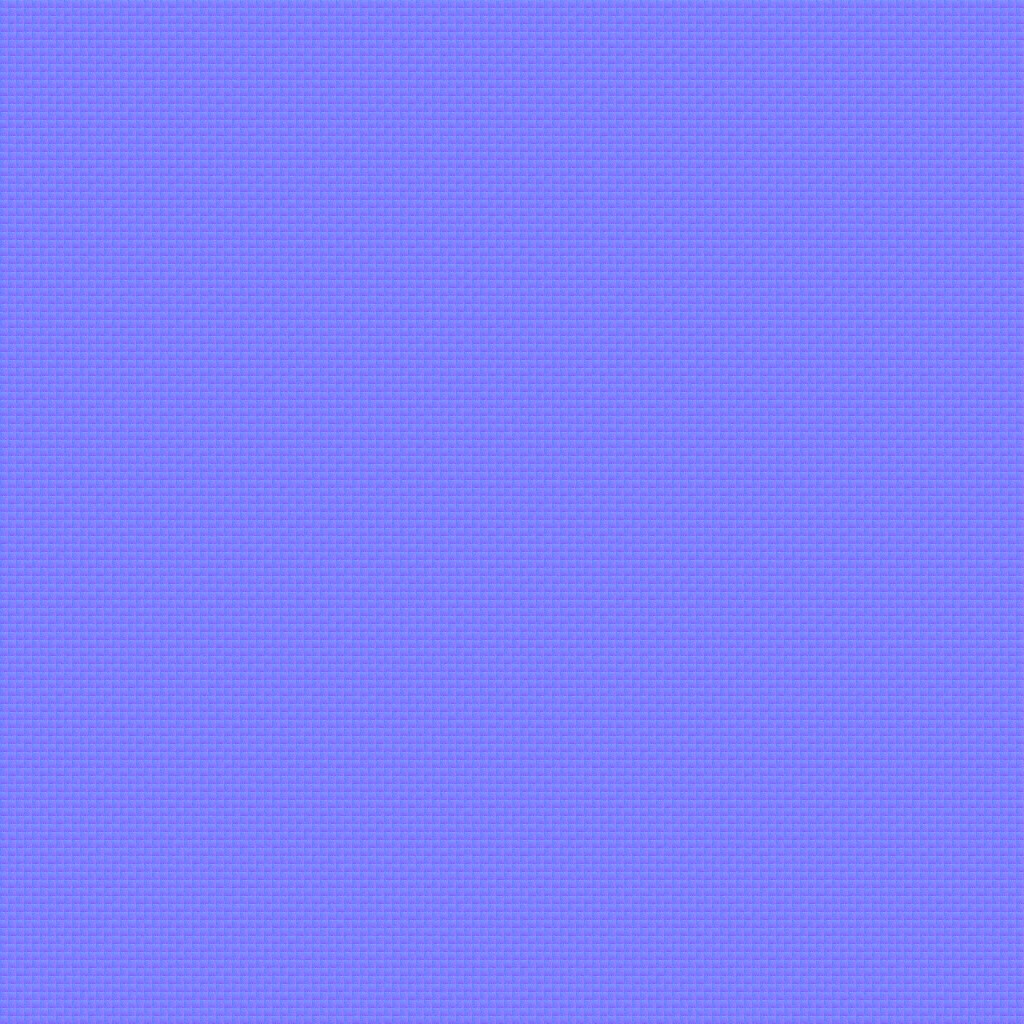
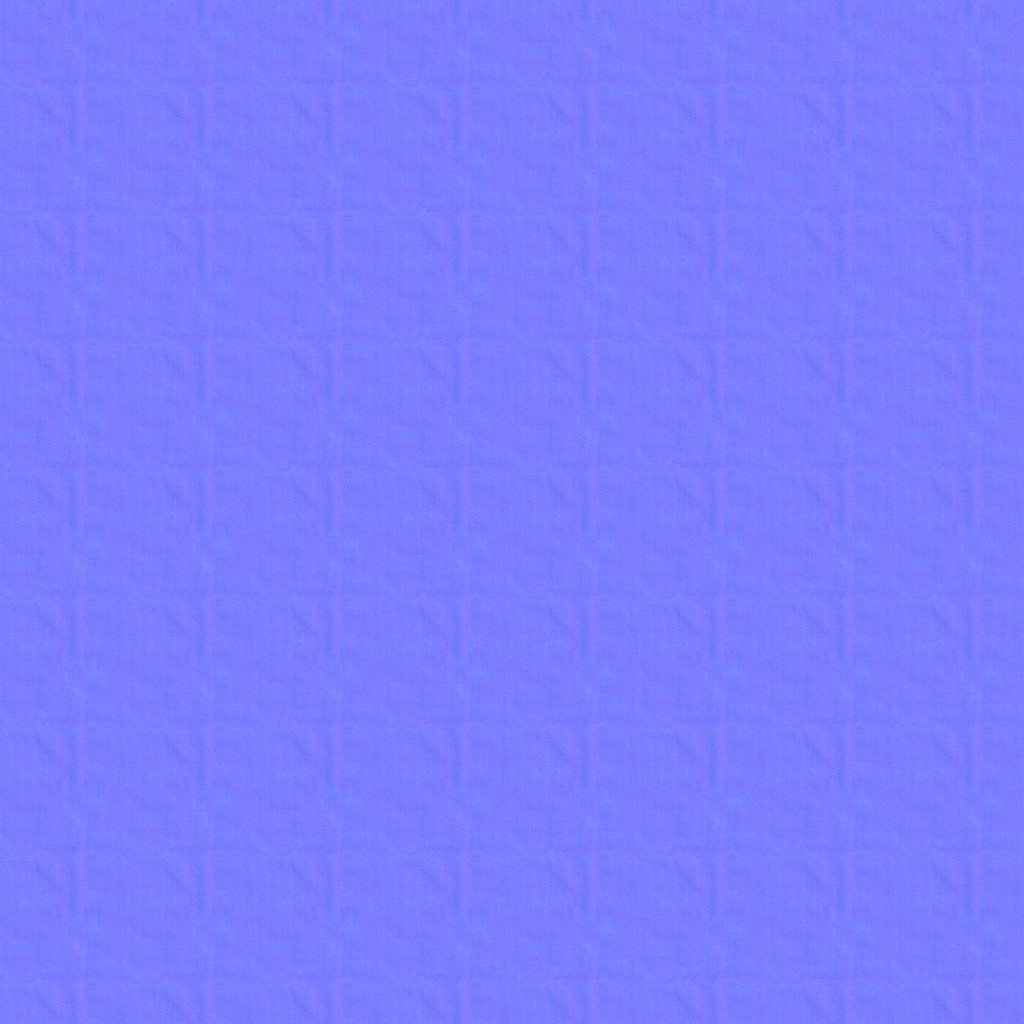
Hollow Manor: the Poly Haven-based textures, now baked and in use
- Baked the 11 textures that needed Poly Haven photo sources; 9 are in use:
  red runner in the Opera lobby, worn flagstone ledges, walls and columns and
  dark oak doors in the Cathedral, oak desks and lecterns in the Archive, rusted
  rails, carts and buckets and oil-stained pit props in the Mine, plain sandstone
  blocks in the Tomb, a barnacled submarine hull in the Abyss, oak furniture,
  doors and slate pillars in the Heart of Hollow Manor
- Cloth textures (detail_cloth, buoys, banners, burlap, curtains, seats, velvet)
  re-baked with the real fabric weave normal map

diff --git a/haunted/level11/rooms.js b/haunted/level11/rooms.js
@@ -45,7 +45,7 @@ const catalogue = {
     R.spectral(-10, 2.3, 10, 2.7);
     R.spectral(-3.7, 2.7, -3.3, 21.5); R.spectral(3.3, 2.7, 3.7, 21.5);
     R.spectral(-10, 10.8, -3.7, 11.2); R.spectral(3.7, 10.8, 10, 11.2);
-    const cab = new T.Mesh(new T.BoxGeometry(2.2, 1.4, 1), E.mat(0x5a3a22)); R.place(cab, DRAWER2[0], DRAWER2[1], .7); R.block(DRAWER2[0] - 1.1, DRAWER2[1] - .5, DRAWER2[0] + 1.1, DRAWER2[1] + .5, .01, E.mat(0));
+    const cab = new T.Mesh(new T.BoxGeometry(2.2, 1.4, 1), E.texFrom(20, 'manor_oak', { color: 0x5a3a22, tile: 1.4 })); R.place(cab, DRAWER2[0], DRAWER2[1], .7); R.block(DRAWER2[0] - 1.1, DRAWER2[1] - .5, DRAWER2[0] + 1.1, DRAWER2[1] + .5, .01, E.mat(0));
     for (let i = 0; i < 6; i++){ const d = new T.Mesh(new T.BoxGeometry(.6, .35, .05), E.mat(0x8a6a42)); R.place(d, -.7 + (i % 3) * .7, DRAWER2[1] - .52, .35 + Math.floor(i / 3) * .5); }
     this.orbs = orbRow(E, R, 3, -1.3, 21.3, 1.3, 2.4);
     this.k = knight(R, E, [0, 17], { sp: 2.6, gone: st => st.got >= 3 });
@@ -72,14 +72,14 @@ const lending = {
   hint: 'While you hold a book you are SOLID — no phasing. Throw the book through the purple wall into its alcove, phase in after it with empty hands, pick it up and put it on the glowing shelf at the back. Red goes left, green right, blue at the top.',
   build(R, E){
     EE = E; const T = E.THREE;
-    const desk = new T.Mesh(new T.BoxGeometry(5, 1, .8), E.mat(0x5a3a22)); R.place(desk, 0, 2.6, .5); R.block(-2.5, 2.2, 2.5, 3, .01, E.mat(0));
+    const desk = new T.Mesh(new T.BoxGeometry(5, 1, .8), E.texFrom(20, 'manor_oak', { color: 0x5a3a22, tile: 1.4 })); R.place(desk, 0, 2.6, .5); R.block(-2.5, 2.2, 2.5, 3, .01, E.mat(0));
     // red alcove (west)
     R.wall(-10, 6.8, -5, 7.2); R.wall(-10, 11.8, -5, 12.2); R.spectral(-5.2, 7.2, -4.8, 11.8);
     // green alcove (east)
     R.wall(5, 11.8, 10, 12.2); R.wall(5, 16.8, 10, 17.2); R.spectral(4.8, 12.2, 5.2, 16.8);
     // blue alcove (north) — the exit is at its back
     R.wall(-3.2, 17.5, -2.8, 22); R.wall(2.8, 17.5, 3.2, 22); R.spectral(-2.8, 17.3, 2.8, 17.7);
-    this.slots = SLOT3.map(([x, lz], i) => { const s = new T.Mesh(new T.BoxGeometry(i === 2 ? 1.6 : .5, 1.6, i === 2 ? .5 : 1.6), E.mat(0x3a2416)); R.place(s, x + (i === 0 ? -.5 : i === 1 ? .5 : 0), lz + (i === 2 ? .6 : 0), .8); const g = new T.Mesh(new T.BoxGeometry(.9, .06, .9), E.glow(BOOKS3[i][2], .8)); R.place(g, x, lz, .04); const b = bookMesh(E, BOOKS3[i][2]); b.visible = false; R.place(b, x, lz, 1.2); return b; });
+    this.slots = SLOT3.map(([x, lz], i) => { const s = new T.Mesh(new T.BoxGeometry(i === 2 ? 1.6 : .5, 1.6, i === 2 ? .5 : 1.6), E.texFrom(20, 'manor_oak', { color: 0x3a2416, tint: 0xb8a090, tile: 1.4 })); R.place(s, x + (i === 0 ? -.5 : i === 1 ? .5 : 0), lz + (i === 2 ? .6 : 0), .8); const g = new T.Mesh(new T.BoxGeometry(.9, .06, .9), E.glow(BOOKS3[i][2], .8)); R.place(g, x, lz, .04); const b = bookMesh(E, BOOKS3[i][2]); b.visible = false; R.place(b, x, lz, 1.2); return b; });
     this.orbs = orbRow(E, R, 3, -1.3, 3.4, 1.3, 1.5);
     knight(R, E, [0, 10], { sp: 2.4, label: 'the Librarian Knight', gone: st => st.put.every(Boolean) });
   },
@@ -134,7 +134,7 @@ const booths = {
     R.wall(-2.4, 16.8, -2, 21.6); R.wall(2, 16.8, 2.4, 21.6); R.spectral(-2, 16.8, 2, 17.2);
     this.gly = BOOTH5.map(([x1, l1, x2, l2]) => { const m = textPlane(E, 1.4, 1.4, 1.2); m.visible = false; R.place(m, (x1 + x2) / 2, (l1 + l2) / 2, 1.9); return m; });
     this.dials = DIAL5.map(([x, lz], i) => { R.plate('d' + i, x, lz, 0xffd38a, 1.3, ['←', '↑', '→'][i]); const m = textPlane(E, 1, 1, 1); R.place(m, x, lz + .9, 1.6); return m; });
-    const desk = new T.Mesh(new T.BoxGeometry(7.6, .8, .5), E.mat(0x5a3a22)); R.place(desk, 0, 8.2, .4); R.block(-3.8, 7.95, 3.8, 8.45, .01, E.mat(0));
+    const desk = new T.Mesh(new T.BoxGeometry(7.6, .8, .5), E.texFrom(20, 'manor_oak', { color: 0x5a3a22, tile: 1.4 })); R.place(desk, 0, 8.2, .4); R.block(-3.8, 7.95, 3.8, 8.45, .01, E.mat(0));
     this.k = knight(R, E, [0, 13], { sp: 2.5, gone: st => st.done });
     this.last = null;
   },
@@ -201,9 +201,9 @@ const restricted = {
   hint: 'The sentry knights stand still until their lantern cone catches you — their gaze goes right through ghost-walls. Once they chase, phase through a wall to lose them. With the Tome in your hands you can\'t phase: use the gaps in the walls, or throw the Tome through a wall and phase after it.',
   build(R, E){
     EE = E; const T = E.THREE;
-    [6.5, 12, 17].forEach((lz, i) => { const g = GAPS7[i][0]; R.spectral(-10, lz - .25, g - 1.1, lz + .25); R.spectral(g + 1.1, lz - .25, 10, lz + .25); const a = new T.Mesh(new T.BoxGeometry(2.2, .2, .6), E.mat(0x3a2416)); R.place(a, g, lz, 2.5); });
-    const lect = new T.Mesh(new T.BoxGeometry(1, 1.1, .8), E.mat(0x3a2416)); R.place(lect, TOME7[0], TOME7[1] + .9, .55);
-    const desk = new T.Mesh(new T.BoxGeometry(2, .9, 1), E.mat(0x5a3a22)); R.place(desk, DESK7[0], DESK7[1] - .7, .45);
+    [6.5, 12, 17].forEach((lz, i) => { const g = GAPS7[i][0]; R.spectral(-10, lz - .25, g - 1.1, lz + .25); R.spectral(g + 1.1, lz - .25, 10, lz + .25); const a = new T.Mesh(new T.BoxGeometry(2.2, .2, .6), E.texFrom(20, 'manor_oak', { color: 0x3a2416, tint: 0xb8a090, tile: 1.4 })); R.place(a, g, lz, 2.5); });
+    const lect = new T.Mesh(new T.BoxGeometry(1, 1.1, .8), E.texFrom(20, 'manor_oak', { color: 0x3a2416, tint: 0xb8a090, tile: 1.4 })); R.place(lect, TOME7[0], TOME7[1] + .9, .55);
+    const desk = new T.Mesh(new T.BoxGeometry(2, .9, 1), E.texFrom(20, 'manor_oak', { color: 0x5a3a22, tile: 1.4 })); R.place(desk, DESK7[0], DESK7[1] - .7, .45);
     this.tomeOn = bookMesh(E, 0x4a0a2a); this.tomeOn.scale.setScalar(1.6); this.tomeOn.visible = false; R.place(this.tomeOn, DESK7[0], DESK7[1] - .7, 1);
     this.sent = POST7.map(([x, lz, ry], i) => {
       const g = knight(R, E, [x, lz], { sp: 3, tint: 0x6a6a86, label: 'a sentry knight', wants: (g, p, st) => st.alert[i] > 0, onStep: (g, dt, st, m, best) => { if (!(st.alert[i] > 0) && Math.hypot(g.x - g.home[0], g.z - g.home[1]) < .3){ g.ry = ry + Math.sin(E.elapsed * .6 + i * 2) * .9; } } });

diff --git a/haunted/level20/rooms.js b/haunted/level20/rooms.js
@@ -25,7 +25,7 @@ const grand = {
   get hint(){ return solo() ? 'The soul seals only break in a Soul Blast. Solo: rewind (R), then tap ☀ standing right next to your dream echo. A blast also stuns every ghost nearby for a long time. Two blasts — one between each pair of seals.' : 'The soul seals only break in a Soul Blast: stand close together and BOTH tap ☀ at the same moment. The blast also stuns every ghost nearby for a long time. Two blasts — one between each pair of seals.'; },
   build(R, E){
     EE = E; const T = E.THREE;
-    this.sm = SEAL1.map(([x, lz]) => { const g = new T.Group(); const p = new T.Mesh(new T.CylinderGeometry(.5, .6, 2, 10), E.mat(0x3a2a3a)); p.position.y = 1; g.add(p); const f = new T.Mesh(new T.ConeGeometry(.35, .9, 8), new T.MeshBasicMaterial({ color: 0xb87aff })); f.position.y = 2.45; g.add(f); g.userData.f = f; R.place(g, x, lz); R.block(x - .5, lz - .5, x + .5, lz + .5, .01, E.mat(0)); return g; });
+    this.sm = SEAL1.map(([x, lz]) => { const g = new T.Group(); const p = new T.Mesh(new T.CylinderGeometry(.5, .6, 2, 10), E.tex('soul_slate', { color: 0x3a2a3a, tile: 1.2 })); p.position.y = 1; g.add(p); const f = new T.Mesh(new T.ConeGeometry(.35, .9, 8), new T.MeshBasicMaterial({ color: 0xb87aff })); f.position.y = 2.45; g.add(f); g.userData.f = f; R.place(g, x, lz); R.block(x - .5, lz - .5, x + .5, lz + .5, .01, E.mat(0)); return g; });
     R.wall(-10, 19.6, -1.5, 20.4); R.wall(1.5, 19.6, 10, 20.4); R.door('g', -1.5, 19.6, 1.5, 20.4, 'gate');
     this.g = [[-8, 11], [8, 11], [0, 18], [-3, 5], [3, 5], [0, 12]].map(h => R.ghost({ home: h, look: ['normal', 'hood', 'hat', 'wisp', 'blob', 'crown'][Math.abs(h[0] + h[1]) % 6], sp: 2, radius: 7 }));
     this.orbs = orbRow(E, R, 4, -1.95, 21.3, 1.3, 2.4);
@@ -83,7 +83,7 @@ const trials = {
     R.wall(-10, 17.6, -1.5, 18.2); R.wall(1.5, 17.6, 10, 18.2); R.door('s', -1.5, 17.6, 1.5, 18.2, 'gate');
     const seal = new T.Mesh(new T.TorusGeometry(.5, .1, 8, 20), E.glow(0x5ad1ff, 1.5)); R.place(seal, 0, 17.5, 1.6); this.seal = seal;
     R.wall(-10, 19.8, -1.5, 20.4); R.wall(1.5, 19.8, 10, 20.4); R.door('h', -1.5, 19.8, 1.5, 20.4, 'gate'); R.plate('p', -5, 19, 0xd8a8ff, 1.3, '☾');
-    const cr = new T.Mesh(new T.BoxGeometry(1.4, .5, 1), E.mat(0x5a3a1a)); R.place(cr, 7, 7, .25);
+    const cr = new T.Mesh(new T.BoxGeometry(1.4, .5, 1), E.tex('manor_oak', { color: 0x5a3a1a, tile: 1 })); R.place(cr, 7, 7, .25);
     for (const [lz, txt] of [[3.25, 'VAULT'], [5.25, 'PHASE'], [11.3, 'BOMB'], [15, 'GRAPPLE'], [17.9, 'BOLT'], [20.1, 'ECHO']]){ const m = textPlane(E, 2, .5, 1); R.place(m, -8.5, lz - .35, 2.4); redraw(m, (c, W, H) => { c.fillStyle = '#2a0a1a'; c.fillRect(0, 0, W, H); c.fillStyle = '#ffd38a'; c.font = 'bold 44px Georgia'; c.textAlign = 'center'; c.textBaseline = 'middle'; c.fillText(txt, W / 2, H / 2 + 2); }); }
   },
   init(){ return { seal: 0, items: [mkItem('bomb', 6.6, 7, { n: 0 }), mkItem('bomb', 7.4, 7, { n: 1 })] }; },
@@ -141,9 +141,9 @@ const banquet = {
   hint: 'Read the three seating rules on the walls, then carry each place card to the right chair. Knives fly across the hall along the glowing lines — get off a line when it lights up.',
   build(R, E){
     EE = E; const T = E.THREE;
-    const tbl = new T.Mesh(new T.BoxGeometry(3.6, .9, 12), E.mat(0x4a2a1a)); R.place(tbl, 0, 11.5, .45); R.block(-1.8, 5.5, 1.8, 17.5, .01, E.mat(0)); const cloth = new T.Mesh(new T.BoxGeometry(3.8, .05, 12.2), E.mat(0xe8d8d8)); R.place(cloth, 0, 11.5, .92);
+    const tbl = new T.Mesh(new T.BoxGeometry(3.6, .9, 12), E.tex('manor_oak', { color: 0x4a2a1a, tile: 1.6 })); R.place(tbl, 0, 11.5, .45); R.block(-1.8, 5.5, 1.8, 17.5, .01, E.mat(0)); const cloth = new T.Mesh(new T.BoxGeometry(3.8, .05, 12.2), E.mat(0xe8d8d8)); R.place(cloth, 0, 11.5, .92);
     for (let i = 0; i < 7; i++){ const c = new T.Mesh(new T.CylinderGeometry(.08, .08, .5, 6), E.glow(0xffd38a, 1.2)); R.place(c, 0, 6.5 + i * 1.65, 1.2); }
-    this.chairs = SEATS5.map(([x, lz]) => { const c = new T.Mesh(new T.BoxGeometry(.9, 1.4, .9), E.mat(0x6a3a2a)); R.place(c, x + (x < 0 ? -.7 : .7), lz, .7); const card = textPlane(E, 1.1, .5, 1); card.visible = false; R.place(card, x * .45, lz, 1.05); card.rotation.x = -Math.PI / 2; return card; });
+    this.chairs = SEATS5.map(([x, lz]) => { const c = new T.Mesh(new T.BoxGeometry(.9, 1.4, .9), E.tex('manor_oak', { color: 0x6a3a2a, tile: 1 })); R.place(c, x + (x < 0 ? -.7 : .7), lz, .7); const card = textPlane(E, 1.1, .5, 1); card.visible = false; R.place(card, x * .45, lz, 1.05); card.rotation.x = -Math.PI / 2; return card; });
     [['The COUNT sits on the left side,', 'in the seat nearest the way out.'], ['The COOK takes the middle seat', 'on the right side.'], ['The CAT sits directly', 'opposite the COOK.']].forEach(([a, b], i) => { const m = textPlane(E, 3.6, 1, 1); m.rotation.y = i === 1 ? -Math.PI / 2 : Math.PI / 2; R.place(m, i === 1 ? 9.7 : -9.7, 6 + i * 5, 1.8); redraw(m, (c, W, H) => { c.fillStyle = '#2a0a14'; c.fillRect(0, 0, W, H); c.fillStyle = '#ffd38a'; c.font = 'italic 24px Georgia'; c.textAlign = 'center'; c.fillText(a, W / 2, H / 2 - 14); c.fillText(b, W / 2, H / 2 + 18); }); });
     this.lines = Array.from({ length: 2 }, () => { const m = new T.Mesh(new T.BoxGeometry(20, .03, .5), new T.MeshBasicMaterial({ color: 0xff3030, transparent: true, opacity: 0 })); E.scene.add(m); return m; });
     this.knives = Array.from({ length: 2 }, () => { const m = new T.Mesh(new T.BoxGeometry(.8, .05, .12), E.mat(0xe8e8f0, { metalness: .9 })); m.visible = false; E.scene.add(m); return m; });
@@ -315,7 +315,7 @@ export default {
   level: 20,
   // texture pack in tex/level20/ (Poly Haven + Blender-baked by Claude Desktop; see README.txt there)
   decor: { kind: 'panel', tex: 'flesh_wall', w: 1.6, h: 2, y: 1.2, every: 6, glow: .15, color: 0x5a0a14, skip: 3 },   // wall dressing: living flesh (engine wallDecor)
-  wallImg: 'manor_wall', trimImg: 'manor_gold', texVer: 1,
+  doorImg: 'manor_oak', wallImg: 'manor_wall', trimImg: 'manor_gold', texVer: 1,
   texFloors: {
     "The Grand Return": "return_checker",
     "The Heartbeat": "heartbeat_flesh",

diff --git a/haunted/level13/rooms.js b/haunted/level13/rooms.js
@@ -11,7 +11,7 @@ const mkItem = (k, x, lz, extra = {}) => ({ k, s: 0, x, lz, hx: x, hlz: lz, w: -
 const home = it => { it.s = 0; it.x = it.hx; it.lz = it.hlz; it.w = -1; it.y = 0; };
 const oilCans = (list) => list.map(([x, lz], i) => mkItem('oil', x, lz, { n: 100 + i }));
 const glowOre = (E, col = 0xffc84a) => { const T = E.THREE, m = new T.Mesh(new T.DodecahedronGeometry(.3), new T.MeshStandardMaterial({ color: col, emissive: col, emissiveIntensity: .9, metalness: .6, roughness: .3 })); return m; };
-const timber = (R, E, x, lz) => { const T = E.THREE, m = E.mat(0x5a3a1a); for (const s of [-1, 1]){ const p = new T.Mesh(new T.BoxGeometry(.3, 2.8, .3), m); R.place(p, x + s * 1.6, lz, 1.4); } const b = new T.Mesh(new T.BoxGeometry(3.5, .3, .35), m); R.place(b, x, lz, 2.8); };
+const timber = (R, E, x, lz) => { const T = E.THREE, m = E.tex('oil_planks', { color: 0x5a3a1a, tile: 1.2 }); for (const s of [-1, 1]){ const p = new T.Mesh(new T.BoxGeometry(.3, 2.8, .3), m); R.place(p, x + s * 1.6, lz, 1.4); } const b = new T.Mesh(new T.BoxGeometry(3.5, .3, .35), m); R.place(b, x, lz, 2.8); };
 
 /* ---------- Tommyknocker: hunts the brightest light it can see ---------- */
 function knocker(R, E, home, opt = {}){
@@ -102,10 +102,10 @@ const carts = {
   build(R, E){
     EE = E; const T = E.THREE;
     R.floor(CH3[0], CH3[1], CH3[2], CH3[3], voidMat(E), .015);
-    const rail = E.mat(0x6a6a72, { metalness: .8 });
+    const rail = E.tex('rail_iron', { color: 0x6a6a72, metalness: .6, roughness: .55, tile: 1 });
     const lay = (a, b) => { const len = Math.hypot(b[0] - a[0], b[1] - a[1]); for (const o of [-.45, .45]){ const r = new T.Mesh(new T.BoxGeometry(.08, .08, len), rail); const ang = Math.atan2(b[0] - a[0], -(b[1] - a[1])); r.rotation.y = ang; R.place(r, (a[0] + b[0]) / 2 + Math.cos(ang) * o, (a[1] + b[1]) / 2 + Math.sin(ang) * o, .1); } };
     [[LOOPB[0], LOOPB[1]], [LOOPB[1], LOOPB[2]], [LOOPB[2], LOOPB[3]], [LOOPB[3], LOOPB[0]], [[7, 5.5], [-7, 5.5]]].forEach(([a, b]) => lay(a, b));
-    this.cart = new T.Group(); const box = new T.Mesh(new T.BoxGeometry(1.6, .8, 1.2), E.mat(0x5a4a3a, { metalness: .4 })); box.position.y = .55; this.cart.add(box); for (const sx of [-.6, .6]) for (const sz of [-.45, .45]){ const w = new T.Mesh(new T.CylinderGeometry(.2, .2, .1, 10), E.mat(0x2a2a2a)); w.rotation.z = Math.PI / 2; w.position.set(sx, .2, sz); this.cart.add(w); } const lamp = new T.PointLight(0xffb36b, 4, 9, 1.4); lamp.position.y = 1.5; this.cart.add(lamp); E.scene.add(this.cart);
+    this.cart = new T.Group(); const box = new T.Mesh(new T.BoxGeometry(1.6, .8, 1.2), E.tex('rail_iron', { color: 0x5a4a3a, metalness: .4, roughness: .6, tile: 1.2 })); box.position.y = .55; this.cart.add(box); for (const sx of [-.6, .6]) for (const sz of [-.45, .45]){ const w = new T.Mesh(new T.CylinderGeometry(.2, .2, .1, 10), E.mat(0x2a2a2a)); w.rotation.z = Math.PI / 2; w.position.set(sx, .2, sz); this.cart.add(w); } const lamp = new T.PointLight(0xffb36b, 4, 9, 1.4); lamp.position.y = 1.5; this.cart.add(lamp); E.scene.add(this.cart);
     R.plate('lever', 9, 4.2, 0xffd34a, 1.2, '⇄');
     this.sign = textPlane(E, 1.6, .8, 1); R.place(this.sign, 9, 5.6, 1.6);
     const cr = new T.Mesh(new T.CylinderGeometry(1, .7, 1.2, 10, 1, true), new T.MeshStandardMaterial({ color: 0x6a6a72, metalness: .7, side: T.DoubleSide })); R.place(cr, CRUSH3[0], CRUSH3[1], .6);
@@ -346,7 +346,7 @@ const oldKnocker = {
   hint: 'The Old Knocker chases the brightest lantern (and decoys). Three ore buckets hang over the X marks. Lure him onto an X, then step on that bucket\'s lever: the bucket drops on his head. Each lever is far from its X — so one of you lures and one pulls, or drop a decoy on the X and run.',
   build(R, E){
     EE = E; const T = E.THREE;
-    this.bk = X10.map(([x, lz], i) => { const mk = new T.Mesh(new T.RingGeometry(1.1, 1.4, 24), new T.MeshBasicMaterial({ color: 0xff5050, side: T.DoubleSide, transparent: true, opacity: .6 })); mk.rotation.x = -Math.PI / 2; R.place(mk, x, lz, .04); const b = new T.Group(); const pail = new T.Mesh(new T.CylinderGeometry(.9, .7, 1.2, 12), E.mat(0x5a4a3a, { metalness: .5 })); b.add(pail); const ore = glowOre(E); ore.scale.setScalar(2.4); ore.position.y = .7; b.add(ore); const rope = new T.Mesh(new T.CylinderGeometry(.04, .04, 4, 4), E.mat(0x8a7a5a)); rope.position.y = 2.6; b.add(rope); R.place(b, x, lz, 4); R.plate('l' + i, LEV10[i][0], LEV10[i][1], 0xffd34a, 1.3, ['Ⅰ', 'Ⅱ', 'Ⅲ'][i]); const sg = textPlane(E, .9, .9, 1); R.place(sg, x, lz, .05); sg.rotation.x = -Math.PI / 2; redraw(sg, (c, W, H) => { c.fillStyle = '#ffd34a'; c.font = 'bold 150px serif'; c.textAlign = 'center'; c.textBaseline = 'middle'; c.fillText(['Ⅰ', 'Ⅱ', 'Ⅲ'][i], W / 2, H / 2); }); return b; });
+    this.bk = X10.map(([x, lz], i) => { const mk = new T.Mesh(new T.RingGeometry(1.1, 1.4, 24), new T.MeshBasicMaterial({ color: 0xff5050, side: T.DoubleSide, transparent: true, opacity: .6 })); mk.rotation.x = -Math.PI / 2; R.place(mk, x, lz, .04); const b = new T.Group(); const pail = new T.Mesh(new T.CylinderGeometry(.9, .7, 1.2, 12), E.tex('rail_iron', { color: 0x5a4a3a, metalness: .5, roughness: .6, tile: 1.2 })); b.add(pail); const ore = glowOre(E); ore.scale.setScalar(2.4); ore.position.y = .7; b.add(ore); const rope = new T.Mesh(new T.CylinderGeometry(.04, .04, 4, 4), E.mat(0x8a7a5a)); rope.position.y = 2.6; b.add(rope); R.place(b, x, lz, 4); R.plate('l' + i, LEV10[i][0], LEV10[i][1], 0xffd34a, 1.3, ['Ⅰ', 'Ⅱ', 'Ⅲ'][i]); const sg = textPlane(E, .9, .9, 1); R.place(sg, x, lz, .05); sg.rotation.x = -Math.PI / 2; redraw(sg, (c, W, H) => { c.fillStyle = '#ffd34a'; c.font = 'bold 150px serif'; c.textAlign = 'center'; c.textBaseline = 'middle'; c.fillText(['Ⅰ', 'Ⅱ', 'Ⅲ'][i], W / 2, H / 2); }); return b; });
     this.boss = knocker(R, E, [0, 19], { scale: 2, label: 'the Old Knocker', tint: 0x6a5030, reach: 14, sp: st => st.stun > 0 ? 0 : 2.3 + st.hits * .35, gone: st => st.done });
     this.kids = [0, 1].map(k => knocker(R, E, [k ? 8 : -8, 20], { gone: st => st.hits <= k || st.done }));
     this.orbs = orbRow(E, R, 3, -1.3, 21.3, 1.3, 3);

diff --git a/haunted/level9/rooms.js b/haunted/level9/rooms.js
@@ -69,11 +69,11 @@ const gallery = {
   hint: 'When a red circle appears under you, a gargoyle is diving there — move or dash out of it! A flash makes a diving gargoyle pull up. Carry the three relic shards to the altar.',
   build(R, E){
     const T = E.THREE;
-    PERCH2.forEach(([x, lz]) => { const ledge = new T.Mesh(new T.BoxGeometry(1.4, .3, 1.6), E.mat(0x5a5662)); R.place(ledge, x, lz, 2.2); });
+    PERCH2.forEach(([x, lz]) => { const ledge = new T.Mesh(new T.BoxGeometry(1.4, .3, 1.6), E.tex('plain_flags', { color: 0x5a5662, tile: 1.6 })); R.place(ledge, x, lz, 2.2); });
     this.gs = PERCH2.map((p, i) => gargoyle(R, E, 'g' + i, p));
     this.marks = diveMarks(E);
     const alt = new T.Mesh(new T.BoxGeometry(2.4, 1, 1.2), E.mat(0xd8d0c4)); R.place(alt, ALT2[0], ALT2[1] + .9, .5);
-    for (const [x, lz] of [[-3, 9], [3, 15]]){ const c = new T.Mesh(new T.CylinderGeometry(.6, .7, 3.2, 12), E.mat(0x6a6672)); R.place(c, x, lz, 1.6); R.block(x - .6, lz - .6, x + .6, lz + .6, .01, E.mat(0)); }
+    for (const [x, lz] of [[-3, 9], [3, 15]]){ const c = new T.Mesh(new T.CylinderGeometry(.6, .7, 3.2, 12), E.tex('plain_flags', { color: 0x6a6672, tile: 1.4 })); R.place(c, x, lz, 1.6); R.block(x - .6, lz - .6, x + .6, lz + .6, .01, E.mat(0)); }
     this.orbs = orbRow(E, R, 3, -1.3, 21.3, 1.3, 2.4);
   },
   init(){ return { got: 0, dv: {}, items: SHARDS.map(([x, lz]) => mkItem('shard', x, lz)) }; },
@@ -235,7 +235,7 @@ const reliquary = {
   hint: 'The three ring walls keep turning, each with one gap. The levers in the corners STOP a ring while someone stands on them. One holds rings still when their gaps line up; the other slips through to the relic in the middle and carries it back out to the altar (top-right corner).',
   build(R, E){
     const T = E.THREE;
-    this.pillars = RINGS.map(([r]) => { const n = Math.round(Math.PI * 2 * r / .75); return Array.from({ length: n }, () => { const m = new T.Mesh(new T.BoxGeometry(.7, 2, .7), E.mat(0x6a6672)); E.scene.add(m); return m; }); });
+    this.pillars = RINGS.map(([r]) => { const n = Math.round(Math.PI * 2 * r / .75); return Array.from({ length: n }, () => { const m = new T.Mesh(new T.BoxGeometry(.7, 2, .7), E.tex('plain_flags', { color: 0x6a6672, tile: 1.4 })); E.scene.add(m); return m; }); });
     LEV7.forEach(([x, lz], i) => R.plate('L' + i, x, lz, [0xff9a3d, 0x5ad1ff, 0xd8a8ff][i], 1.4, ['Ⅰ', 'Ⅱ', 'Ⅲ'][i]));
     const alt = new T.Mesh(new T.BoxGeometry(1.6, .9, 1.2), E.mat(0xd8d0c4)); R.place(alt, 8.6, 20.8, .45);
   },
@@ -267,7 +267,7 @@ const aisle = {
   build(R, E){
     const T = E.THREE;
     GAPS8.forEach(([a, b]) => R.floor(-10, a, 10, b, voidMat(E), .015));
-    for (const [x1, l1, x2, l2] of [[-10, 3.5, -2, 4.3], [2, 11, 10, 11.8], [-10, 18.2, -3, 19]]) R.block(x1, l1, x2, l2, 2.2, E.mat(0x5a5662));
+    for (const [x1, l1, x2, l2] of [[-10, 3.5, -2, 4.3], [2, 11, 10, 11.8], [-10, 18.2, -3, 19]]) R.block(x1, l1, x2, l2, 2.2, E.tex('plain_flags', { color: 0x5a5662, tile: 1.6 }));
     R.hook(-5, 18); R.hook(5, 17.6);
     this.front = R.floor(-10, 0, 10, 1, voidMat(E), .02);
     this.dust = new T.Mesh(new T.BoxGeometry(20, 2, .3), new T.MeshBasicMaterial({ color: 0x8a8090, transparent: true, opacity: .35 })); E.scene.add(this.dust);
@@ -373,7 +373,7 @@ export default {
   level: 9,
   // texture pack in tex/level9/ (Poly Haven + Blender-baked by Claude Desktop; see README.txt there)
   decor: { kind: 'panel', tex: 'stained_glass', w: 1.1, h: 1.8, y: 1.45, every: 5, glow: .55, frame: true, mullion: true, color: 0x8a6a3a },   // wall dressing: stained-glass windows (engine wallDecor)
-  wallImg: 'cathedral_wall', trimImg: 'wrought_iron', texVer: 1,
+  doorImg: 'pew_oak', wallImg: 'cathedral_wall', trimImg: 'wrought_iron', texVer: 1,
   texFloors: {
     "The Collapsed Nave": "nave_flags",
     "The Gargoyle Gallery": "gallery_cobble",

diff --git a/haunted/level17/rooms.js b/haunted/level17/rooms.js
@@ -178,7 +178,7 @@ const searchlight = {
   build(R, E){
     EE = E; const T = E.THREE;
     ROCK6.forEach(([a, b, c, d]) => R.block(a, b, c, d, 1.6, rockMat(E)));
-    this.sub = new T.Group(); const hull = new T.Mesh(new T.CapsuleGeometry(1, 4, 6, 12), E.mat(0x3a4a3a, { metalness: .6 })); hull.rotation.z = Math.PI / 2; hull.position.y = 1.3; this.sub.add(hull); const tower = new T.Mesh(new T.BoxGeometry(1.2, 1, 1), hull.material); tower.position.y = 2.4; this.sub.add(tower); this.lamp = new T.Mesh(new T.SphereGeometry(.3, 10, 8), E.glow(0xffffd8, 3)); this.lamp.position.set(0, 1.3, .9); this.sub.add(this.lamp); E.scene.add(this.sub);
+    this.sub = new T.Group(); const hull = new T.Mesh(new T.CapsuleGeometry(1, 4, 6, 12), E.tex('barnacle_iron', { color: 0x3a4a3a, metalness: .5, roughness: .6, tile: 1.6 })); hull.rotation.z = Math.PI / 2; hull.position.y = 1.3; this.sub.add(hull); const tower = new T.Mesh(new T.BoxGeometry(1.2, 1, 1), hull.material); tower.position.y = 2.4; this.sub.add(tower); this.lamp = new T.Mesh(new T.SphereGeometry(.3, 10, 8), E.glow(0xffffd8, 3)); this.lamp.position.set(0, 1.3, .9); this.sub.add(this.lamp); E.scene.add(this.sub);
     this.cone = E.sector(17, .3, 0xffffd8, .18); E.scene.add(this.cone);
     LEV6.forEach(([x, lz], i) => R.plate('l' + i, x, lz, 0xd4af37, 1.3, '⏚'));
   },

diff --git a/haunted/level15/rooms.js b/haunted/level15/rooms.js
@@ -5,7 +5,7 @@ import { orbRow, setOrbs, near, inRect, textPlane, redraw } from '../lib.js';
 let EE = null;
 const solo = () => EE && EE.solo();
 const sandstone = E => E.mat(0xffffff, { roughness: .9, map: E.tiledTex(128, 128, (x, w, h) => { x.fillStyle = '#b8955a'; x.fillRect(0, 0, w, h); x.strokeStyle = '#8a6a3a'; x.lineWidth = 3; for (let j = 0; j < 4; j++) for (let i = 0; i < 2; i++) x.strokeRect(i * 64 + (j % 2) * 32, j * 32, 64, 32); for (let k = 0; k < 30; k++){ x.fillStyle = 'rgba(90,60,30,.25)'; x.fillRect(Math.random() * w, Math.random() * h, 3, 2); } }, 6, 6) });
-const blockMat = E => E.tex('ante_sandstone', { color: 0xc8a66a, roughness: .9, tile: 1.6 });
+const blockMat = E => E.tex('plain_sandstone', { color: 0xc8a66a, roughness: .9, tile: 1.8 });
 const goldMat = E => E.tex('tomb_gold', { color: 0xd4af37, metalness: .85, roughness: .25, emissive: 0x5a4210, emissiveIntensity: .4, tile: 1 });
 const voidMat = E => new E.THREE.MeshBasicMaterial({ color: 0x0a0604 });
 const mkItem = (k, x, lz, extra = {}) => ({ k, s: 0, x, lz, hx: x, hlz: lz, w: -1, ...extra });

diff --git a/haunted/level8/rooms.js b/haunted/level8/rooms.js
@@ -25,6 +25,7 @@ const lobby = {
   build(R, E){
     const T = E.THREE;
     for (const [x, lz] of [[-5, 6], [5, 6], [-5, 13], [5, 13]]){ const c = new T.Mesh(new T.CylinderGeometry(.6, .7, 3.2, 14), E.mat(0xe8e0d4)); R.place(c, x, lz, 1.6); R.block(x - .6, lz - .6, x + .6, lz + .6, .01, E.mat(0)); }
+    R.floor(-1.1, .8, 1.1, 18.8, E.tex('runner_floor', { rx: 1, ry: 8 }), .01);   // tex/level8/runner_floor
     const desk = new T.Mesh(new T.BoxGeometry(4, 1, 1), E.mat(0x5a2a1a)); R.place(desk, 0, 19.5, .5); R.block(-2, 19, 2, 20, .01, E.mat(0));
     phantom(R, { home: [0, 10] });
     this.orbs = orbRow(E, R, 4, -1.95, 21.3);
